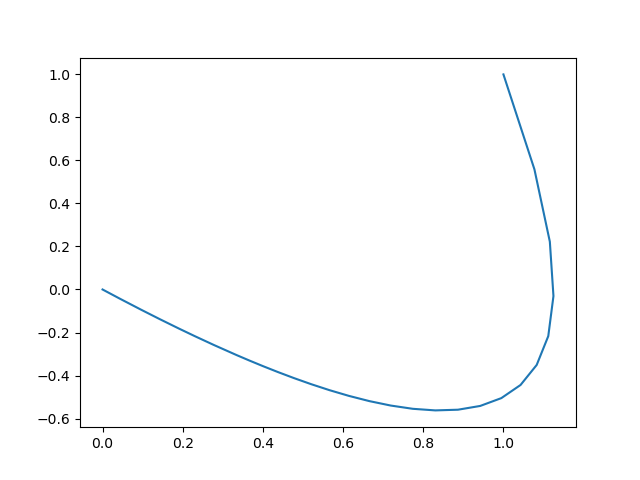
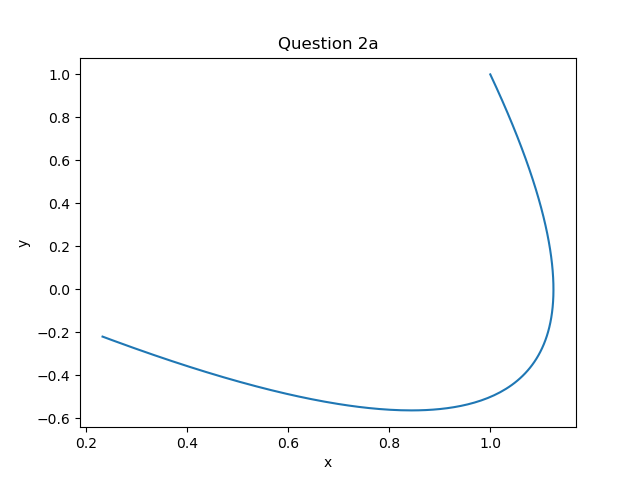
write up q1 and q2 up to 2c

diff --git a/System ODE solver.py b/System ODE solver.py
@@ -4,18 +4,22 @@ from scipy.integrate import odeint #Using the simple ODE solver
 import matplotlib.pyplot as plt
 
 #parameter values
+a = 5
+b = 2
+c = -17
+d = -5
 
 #Define System of ODEs
 def odesystem (z, t):
     x = z[0]
     y = z[1]
-    dxdt = 4*x - 3*y
-    dydt = 8*x - 6*y
+    dxdt = a*x + b*y
+    dydt = c*x + d*y
     dzdt = [dxdt, dydt]
     return dzdt
 
 #solve ODE
-t = np.linspace(0, 20, 200)
+t = np.linspace(0, 2.5, 200)
 x0 = 1 #initial x value
 y0 = 1 #initial y value
 z0 = [x0, y0]
@@ -24,6 +28,15 @@ z = odeint(odesystem, z0, t)
 x = z[:, 0]
 y = z[:, 1]
 
+#calculate eigenvalues
+arr = [[a, b], [c, d]]
+eigen = np.linalg.eig(arr)
+print(eigen[0])
+
 #plot results
-plt.plot(x, y)
+plt.plot(x,y)
+plt.xlabel("x")
+plt.ylabel("y")
+plt.title("Question 2c")
 plt.show()
+

diff --git a/Linear ODE solver.py b/Linear ODE solver.py
@@ -7,7 +7,7 @@ import matplotlib.pyplot as plt
 
 #Define System of ODEs
 def odesystem (y, x):
-    dydx = -(x**2*y**2+y)/(2*x**3*y - x)
+    dydx = x**3*y - x*y
     return dydx
 
 #solve ODE
@@ -19,4 +19,7 @@ y = odeint(odesystem, y0, x)
 
 #plot results
 plt.plot(x,y)
+plt.xlabel("x")
+plt.ylabel("y")
+plt.title("Question 1b")
 plt.show()
